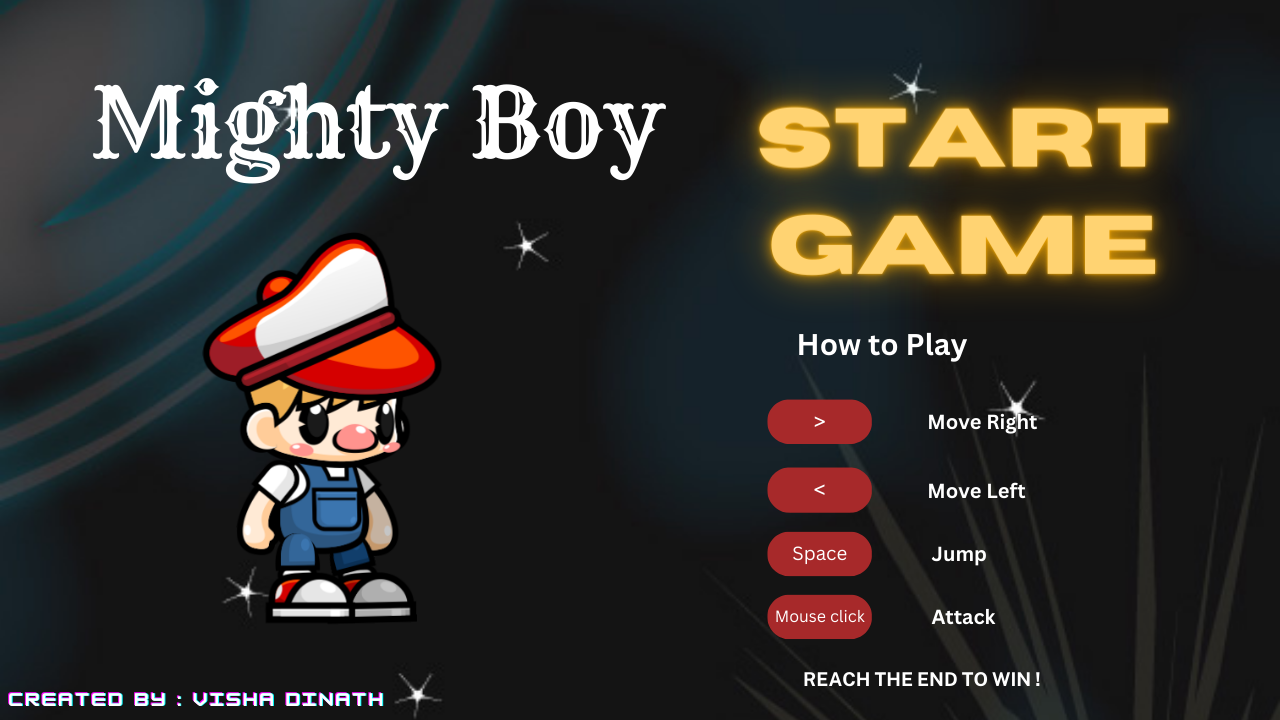
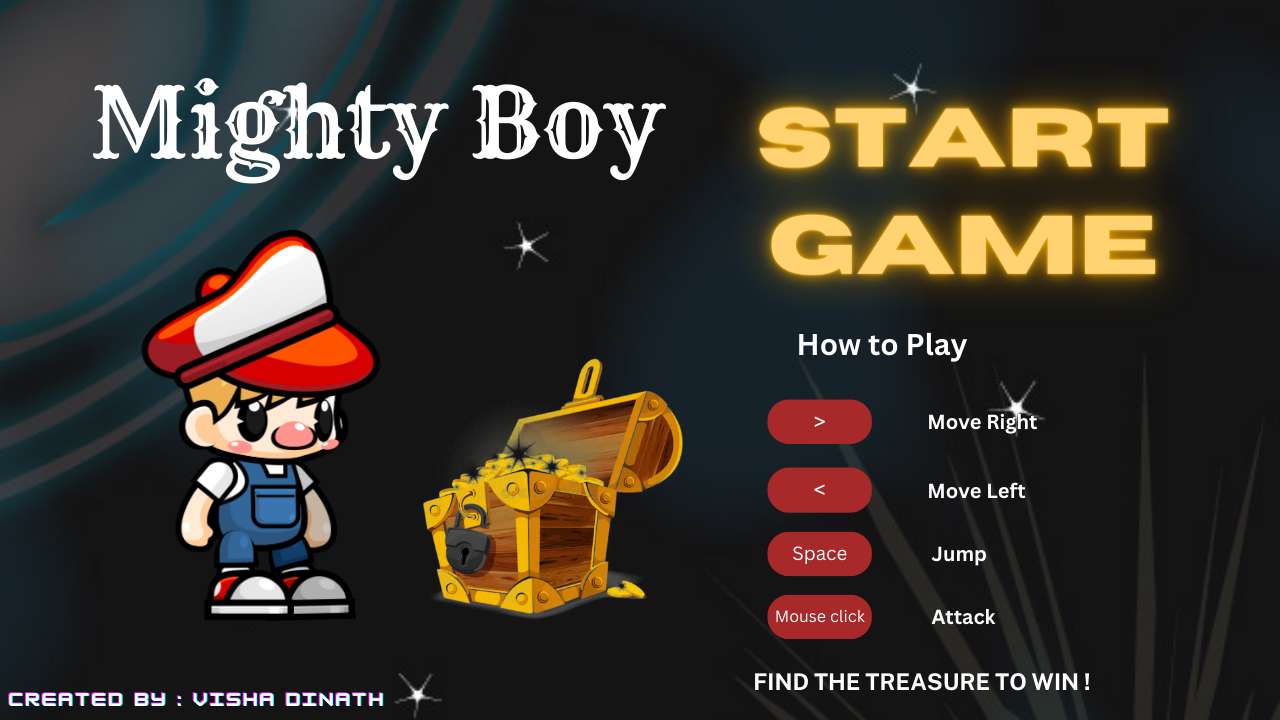
finalize the game by adjusting some issues

Changed region(s): [[0.0938, 0.3056, 0.5312, 0.8556], [0.5938, 0.9167, 0.8438, 0.9778]]

diff --git a/js/main.js b/js/main.js
@@ -23,12 +23,17 @@ function gameStart(){
             jump = (!die)?true:false;  
         }else if (eventData.code === 'ArrowRight'){
             run = (!die)?true:false;
-            if(!die)boy.style.transform='scaleX(1)';
+            if(!die){
+                boy.style.transform='scaleX(1)';
+                score+=1;
+            };
             dx = 2;
         }else if (eventData.code === 'ArrowLeft'){
             run = (!die)?true:false;
-            console.log("turned");
-            if(!die) boy.style.transform='scaleX(-1)';
+            if(!die) {
+                boy.style.transform='scaleX(-1)';
+                score-=1;
+            };
             dx = -2;
         }
     });
@@ -61,14 +66,15 @@ function doJump(){
         angle = 0;  
     }
 }
-
 let y =1;
 function doRun(){
     let x = boy.offsetLeft + dx;
-    if ((x)>= innerWidth-20) {
-        x = 0;
+    if ((x)>= innerWidth-100 && y<5) {
+        x = 5;
         y++;
         setBackground(y)
+    }else if(x>=innerWidth-200 && y===5){
+        gameWon();
     }else if (x <= 0) x = 0;
     boy.style.left = `${x}px`;
 }
@@ -152,8 +158,6 @@ function enemyDrawWalk(element){
     element.elm.style.backgroundImage=`url('img/Zombie${element.image}/Walk${m++}.png')`;
     if (m===6) m=1;
 }
-
-console.log(boy.getBoundingClientRect());
 
 let intervalEnemy=null;
 const arrayEnemyInterval = [];
@@ -263,15 +267,15 @@ document.body.append(board);
 board.innerText='Start'
 
 function setBackground(y){
-    if (y===6) gameWon();
     if (y==5) {
+        showTreasure();
         board.style.backgroundImage="url('img/other/end-board.png'";
         bodyElm.style.backgroundImage=`url("img/background${y}.jpg ")`
         board.style.visibility='visible';
         board.style.left='1300px';
         board.innerText='End';
         board.style.alignItems='flex-start';
-        board.style.paddingTop='70px'
+        board.style.paddingTop='70px';
     }
     if (y<5){
         board.style.visibility='hidden';
@@ -279,9 +283,18 @@ function setBackground(y){
     }
 }
 
+
+let treasure;
+function showTreasure(){
+    treasure = document.createElement('div');
+    treasure.classList.add('treasure');
+    document.body.append(treasure);
+}
+
 function gameWon(){
     audio.pause();
     document.body.removeChild(boy);
+    enemies.forEach(each=>each.elm.style.display='none');
     const imgWon = document.createElement('div');
     imgWon.classList.add('restart');
     document.body.append(imgWon);

diff --git a/css/style.css b/css/style.css
@@ -35,13 +35,16 @@ body{
 }
 
 .fire-ball{
-    width: 50px;
+    width: 120px;
     height: 50px;
-    background-color: red;
+    /* background-color: red; */
     position: absolute;
     bottom: 150px;
-    border-radius: 100%;
-    background-image: linear-gradient(red,yellow);
+    /* border-radius: 100%; */
+    /* background-image: linear-gradient(red,yellow); */
+    background-image: url(../img/other/fireball.png);
+    background-position: center;
+    background-size: cover;
 }
 
 footer{
@@ -190,4 +193,13 @@ footer{
     top: 100%;
 }
     
-
+.treasure{
+    width: 200px;
+    height: 150px;
+    background-image: url(../img/other/treasure.png);
+    background-position: center;
+    background-size: cover;
+    position: absolute;
+    bottom: 100px;
+    right: 0;
+}
